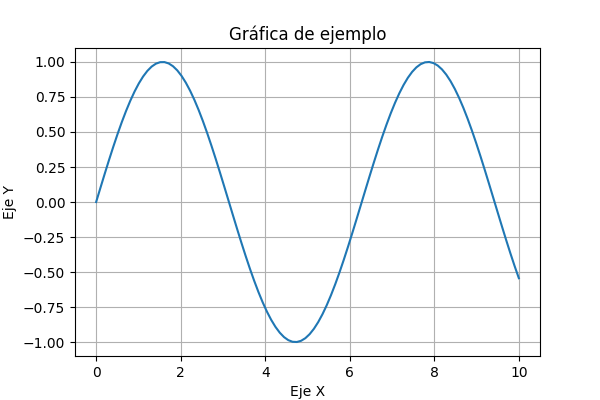
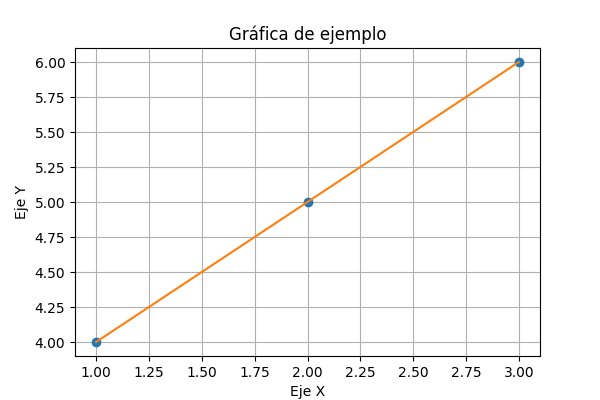
helped a bit and make some progrss

diff --git a/windows/IInterpolation.py b/windows/IInterpolation.py
@@ -11,28 +11,30 @@ class AInterpolation(tk.Frame):
     self.configure(background = "blue")
     self.controller =controller  
     # self.orden = orden
-    self.cuadros =  cuadros
+    self.cuadros = cuadros
     self.entries =[]
     self.widget()
-    
+
   def widget(self):
     for idx, label_text in enumerate(self.cuadros):
       label = tk.Label(self, text=label_text, width=3)
       label.grid(row=idx, column=0, padx=1, pady=1)
-      
       entry = tk.Entry(self, width=65)
       entry.grid(row=idx, column=1, padx=1, pady=1)
-    
       self.entries.append(entry)
     
-  def show_result(self,grafica):    
+  def show_result(self,value):    
     top = tk.Toplevel(self)
     top.title("Tabla de datos")
-
     imagen = Image.open('img.png')
     imagen_tk = ImageTk.PhotoImage(imagen)
-    label_imagen = tk.Label(top, image=imagen_tk)
+
+    label_new = tk.Label(top,text=value)
+    label_new.pack()
+
+    label_imagen = tk.Label(top,image=imagen_tk)
     label_imagen.pack()
+
     
 
 class CMinimos(AInterpolation):
@@ -46,12 +48,12 @@ class CMinimos(AInterpolation):
     
     execute = tk.Button(self,text="Ejecutar",command=lambda:self.solve_minimos())  
     execute.grid(row=ultima_fila+2, column=0, padx=2, pady=5)
+
+    # xdata = [float(i) for i in [1,2,3,4,5] if self.isNumeric(i)]
+    # ydata = [float(i) for i in [9,19,82,101,200] if self.isNumeric(i)]
     
-    xdata = [float(i) for i in self.entries[0].get().split(' ') if self.isNumeric(i)]
-    ydata = [float(i) for i in self.entries[1].get().split(' ') if self.isNumeric(i)]
-    
-    grafica=self.graficar(xdata,ydata)
-    self.show_result(grafica)
+    # self.graficar(xdata,ydata)
+    # self.show_result()
   
   def isNumeric(self,s):
     try:
@@ -60,28 +62,26 @@ class CMinimos(AInterpolation):
     except ValueError:
         return False   
     
-  def graficar(self,xdata,ydata):
-  
-    x = np.linspace(0, 10, 100)
-    y = np.sin(x)
-
+  def graficar(self,x,y,f):
     plt.figure(figsize=(6, 4))
-    plt.plot(x, y)
+    plt.plot(x, y,'o',label='Originales')
+    plt.plot(x,[f(i) for i in x],label='Minimos cuadrados')
     plt.title('Gráfica de ejemplo')
     plt.xlabel('Eje X')
     plt.ylabel('Eje Y')
-    plt.grid(True)
-        
+    plt.grid()
     plt.savefig('img.png')
+    plt.legend()
     plt.close()
-   
 
-  def solve_minimo(self): 
+
+  def solve_minimos(self): 
     try:
       xdata = [float(i) for i in self.entries[0].get().split(' ') if self.isNumeric(i)]
       ydata = [float(i) for i in self.entries[1].get().split(' ') if self.isNumeric(i)]
-    
-      a0,a1 = minimos_cuadrados(xdata,ydata)  
+      a0,a1,f = minimos_cuadrados(xdata,ydata)  
+      self.graficar(xdata,ydata,f)
+      self.show_result(f'{a0} + ({a1})*x')
     except Exception as e:
       print(e) 
 
@@ -97,8 +97,6 @@ class CPsimple(AInterpolation):
     
     execute = tk.Button(self,text="Ejecutar",command=lambda:self.solve_Psimple())  
     execute.grid(row=ultima_fila+2, column=0, padx=2, pady=5) 
-    
-    
     
 
   def isNumeric(self,s):

diff --git a/functions/Interpolation.py b/functions/Interpolation.py
@@ -16,7 +16,7 @@ def minimos_cuadrados(dx,dy):
   a0 = (Sy*Sx_2-Sx*Sxy)/denominador
   a1 = (m*Sxy-Sx*Sy)/denominador
   m = a0 + a1*x
-  return a0,a1
+  return a0,a1,sp.lambdify(x,m)
 
 def p_simple(xdata,ydata):
   N=len(xdata)

diff --git a/main.py b/main.py
@@ -1,4 +1,3 @@
-import tkinter as tk
 from Admin import Admin
 
 if __name__=="__main__": 
